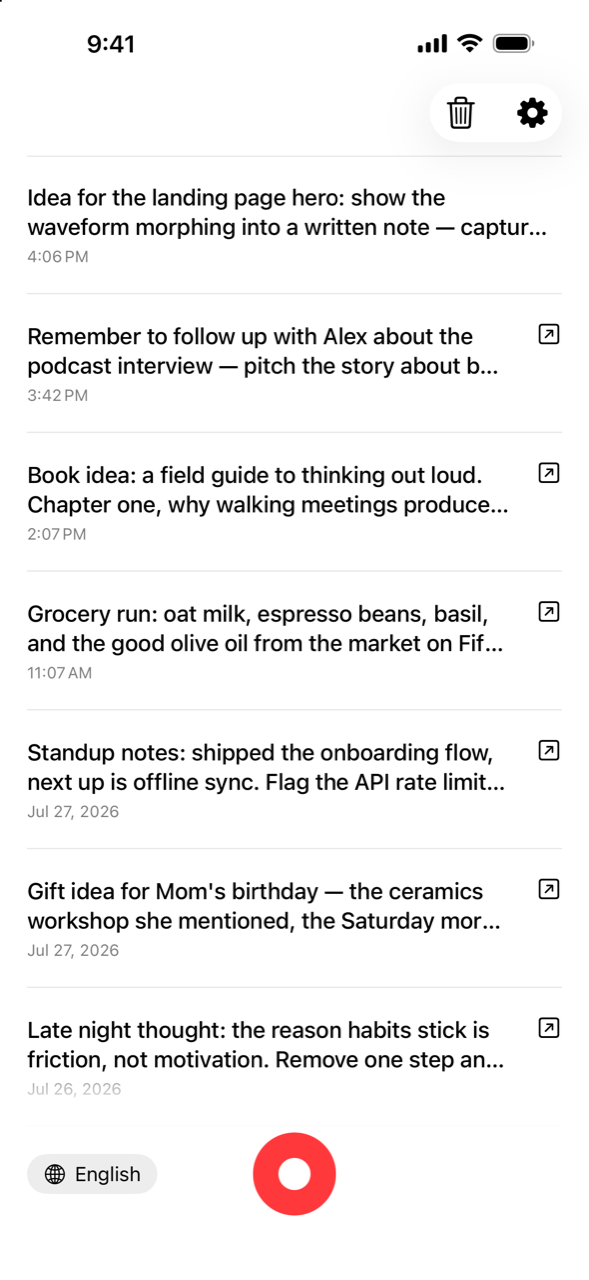
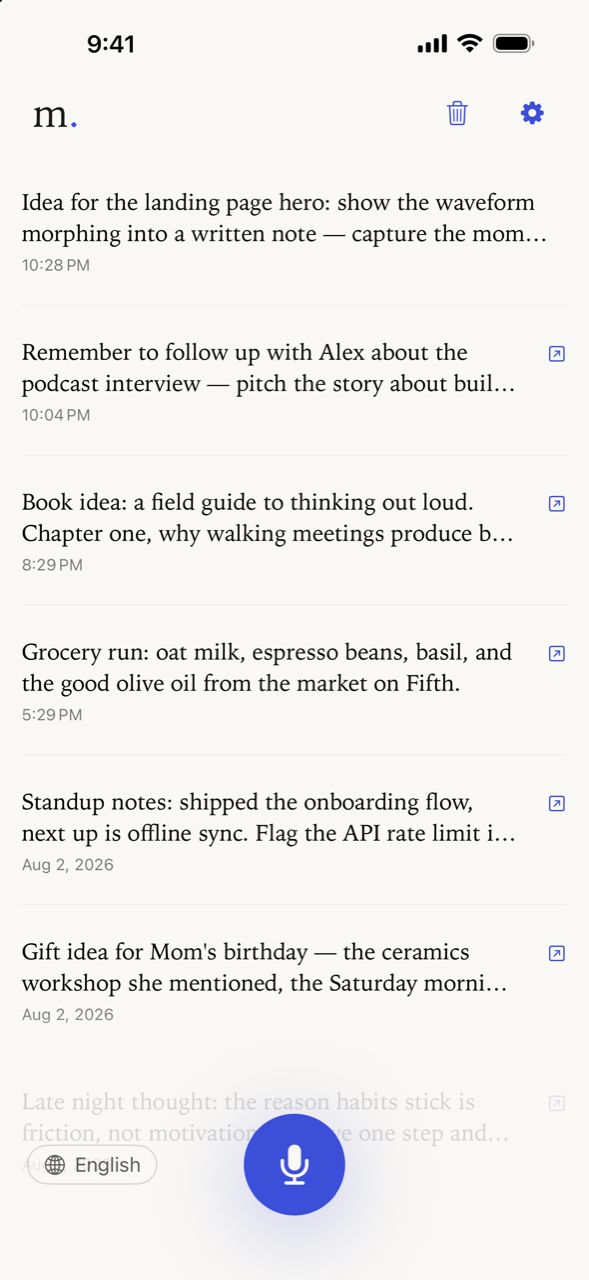
Refresh for the dual-mode redesign: new shots, paper/ink palette, serif titles
The app's visual redesign has landed, so every screenshot here showed a design
that no longer exists — white ground, red record button, sans-serif rows.

- assets/shot-1..5 re-generated from the new 1.3 raws, shot-watch and the two
  icon sizes re-exported (the icon now carries the indigo brand dot).
- CSS moved onto the app's design tokens: paper #FAF8F4 / ink #111014 grounds,
  indigo #3B4FD8 / #93A2FF accent, and Iowan Old Style titles with a Palatino →
  Georgia fallback for non-Apple visitors. No font-weight on that stack: Iowan
  has no medium face and a weight request is synthesized into fake bold.
- Cards get a 1px hairline border — white-on-paper is a 2%-apart pair and the
  grid dissolved without it.
- privacy-policy/ gets the same palette and serif headings; it is linked from
  the App Store listing, so it is part of the brand surface.

Copy is unchanged — the hero, the three feature cards and the pricing block
were each re-checked against the app and are all still accurate.

diff --git a/index.html b/index.html
@@ -11,22 +11,29 @@
 <link rel="icon" type="image/png" href="/assets/icon-360.png">
 <link rel="apple-touch-icon" href="/assets/icon-360.png">
 <style>
+  /* Palette and type follow the app's design manual (paper/ink, indigo accent, Iowan Old
+     Style titles) so the site, the App Store panels and the app itself read as one thing. */
   :root {
-    --grad-top: #26262A;
-    --grad-bottom: #151517;
-    --text: #1c1c1e;
-    --text-2: #55555c;
-    --bg: #ffffff;
-    --card: #f4f4f6;
-    --footer-line: #e5e5e8;
+    --grad-top: #16151A;
+    --grad-bottom: #0D0C10;
+    --text: #1A1815;
+    --text-2: rgba(26, 24, 21, 0.60);
+    --bg: #FAF8F4;
+    --card: #FFFFFF;
+    --card-border: rgba(26, 24, 21, 0.08);
+    --footer-line: rgba(26, 24, 21, 0.10);
+    --accent: #3B4FD8;
+    --on-ink: #F5F2EA;
   }
   @media (prefers-color-scheme: dark) {
     :root {
-      --text: #f2f2f7;
-      --text-2: #a7a7b3;
-      --bg: #000000;
-      --card: #17171b;
-      --footer-line: #26262b;
+      --text: #F5F2EA;
+      --text-2: rgba(245, 242, 234, 0.64);
+      --bg: #111014;
+      --card: #26242B;
+      --card-border: rgba(245, 242, 234, 0.16);
+      --footer-line: rgba(245, 242, 234, 0.18);
+      --accent: #93A2FF;
     }
   }
   * { margin: 0; padding: 0; box-sizing: border-box; }
@@ -37,11 +44,15 @@
     line-height: 1.6;
     -webkit-font-smoothing: antialiased;
   }
+  /* Iowan Old Style is an Apple system font; visitors elsewhere fall through to Palatino and
+     then Georgia. No font-weight is set anywhere on this stack — Iowan has no medium face and
+     a weight request is synthesized into fake bold (design manual §3). */
+  h1, h2, .hero .name { font-family: "Iowan Old Style", Palatino, "Palatino Linotype", Georgia, serif; }
   a { color: inherit; }
 
   .hero {
     background: linear-gradient(180deg, var(--grad-top) 0%, var(--grad-bottom) 100%);
-    color: #fff;
+    color: var(--on-ink);
     text-align: center;
     padding: 88px 24px 96px;
   }
@@ -49,12 +60,11 @@
     width: 120px;
     height: 120px;
     border-radius: 27.5%;
-    box-shadow: 0 18px 44px rgba(0, 0, 0, 0.45);
+    box-shadow: 0 24px 60px rgba(59, 79, 216, 0.22), 0 18px 44px rgba(0, 0, 0, 0.45);
   }
   .hero .name {
     margin-top: 20px;
     font-size: 22px;
-    font-weight: 700;
     letter-spacing: 0.02em;
     opacity: 0.92;
   }
@@ -62,9 +72,7 @@
     margin: 18px auto 0;
     max-width: 640px;
     font-size: clamp(38px, 7vw, 60px);
-    line-height: 1.12;
-    font-weight: 800;
-    letter-spacing: -0.02em;
+    line-height: 1.18;
     text-wrap: balance;
   }
   .hero p.sub {
@@ -78,11 +86,11 @@
     display: inline-block;
     margin-top: 34px;
     padding: 14px 28px;
-    border: 1.5px solid rgba(255,255,255,0.65);
+    border: 1.5px solid rgba(245, 242, 234, 0.65);
     border-radius: 999px;
     font-size: 16px;
     font-weight: 600;
-    color: #fff;
+    color: var(--on-ink);
     text-decoration: none;
     backdrop-filter: blur(4px);
   }
@@ -93,8 +101,11 @@
     grid-template-columns: repeat(auto-fit, minmax(260px, 1fr));
     gap: 20px;
   }
+  /* White card on paper is a 2%-apart pair, so the 1px border is what actually draws the card
+     (design manual's border/card token) — without it the grid dissolves in light mode. */
   .feature {
     background: var(--card);
+    border: 1px solid var(--card-border);
     border-radius: 22px;
     padding: 28px 26px;
   }
@@ -102,7 +113,7 @@
   .feature h3 { margin-top: 12px; font-size: 20px; letter-spacing: -0.01em; }
   .feature p { margin-top: 8px; color: var(--text-2); font-size: 15.5px; }
 
-  .shots h2, .watch h2 { font-size: 32px; letter-spacing: -0.02em; text-align: center; text-wrap: balance; }
+  .shots h2, .watch h2 { font-size: 34px; text-align: center; text-wrap: balance; }
   .shots .strip {
     margin-top: 34px;
     display: flex;
@@ -129,12 +140,13 @@
   }
   .pricing .line {
     background: var(--card);
+    border: 1px solid var(--card-border);
     border-radius: 22px;
     padding: 34px 28px;
     max-width: 680px;
     margin: 0 auto;
   }
-  .pricing h2 { font-size: 26px; letter-spacing: -0.01em; }
+  .pricing h2 { font-size: 28px; }
   .pricing p { margin-top: 10px; color: var(--text-2); }
 
   footer {
@@ -145,7 +157,7 @@
     color: var(--text-2);
     font-size: 14.5px;
   }
-  footer a { margin: 0 10px; }
+  footer a { margin: 0 10px; color: var(--accent); }
 </style>
 </head>
 <body>

diff --git a/privacy-policy/index.html b/privacy-policy/index.html
@@ -5,15 +5,21 @@
 <meta name="viewport" content="width=device-width, initial-scale=1">
 <title>Murmur Privacy Policy</title>
 <style>
-  body { font-family: -apple-system, BlinkMacSystemFont, "Segoe UI", sans-serif; max-width: 680px; margin: 3rem auto; padding: 0 1.25rem; line-height: 1.6; color: #1c1c1e; }
-  h1 { font-size: 1.6rem; }
-  h2 { font-size: 1.15rem; margin-top: 2rem; }
-  h3 { font-size: 1rem; margin-top: 1.5rem; }
-  p, li { color: #3a3a3c; }
-  .updated { color: #8e8e93; font-size: 0.9rem; }
+  /* Same paper/ink palette and serif headings as the landing page — this URL is linked from
+     the App Store listing, so it is part of the brand surface, not a stray document. */
+  body { font-family: -apple-system, BlinkMacSystemFont, "Segoe UI", sans-serif; max-width: 680px; margin: 3rem auto; padding: 0 1.25rem; line-height: 1.6; color: #1A1815; background: #FAF8F4; }
+  h1, h2, h3 { font-family: "Iowan Old Style", Palatino, "Palatino Linotype", Georgia, serif; font-weight: normal; }
+  h1 { font-size: 1.7rem; }
+  h2 { font-size: 1.25rem; margin-top: 2rem; }
+  h3 { font-size: 1.05rem; margin-top: 1.5rem; }
+  p, li { color: rgba(26, 24, 21, 0.75); }
+  a { color: #3B4FD8; }
+  .updated { color: rgba(26, 24, 21, 0.60); font-size: 0.9rem; }
   @media (prefers-color-scheme: dark) {
-    body { background: #000; color: #f2f2f7; }
-    p, li { color: #c7c7cc; }
+    body { background: #111014; color: #F5F2EA; }
+    p, li { color: rgba(245, 242, 234, 0.78); }
+    a { color: #93A2FF; }
+    .updated { color: rgba(245, 242, 234, 0.64); }
   }
 </style>
 </head>
